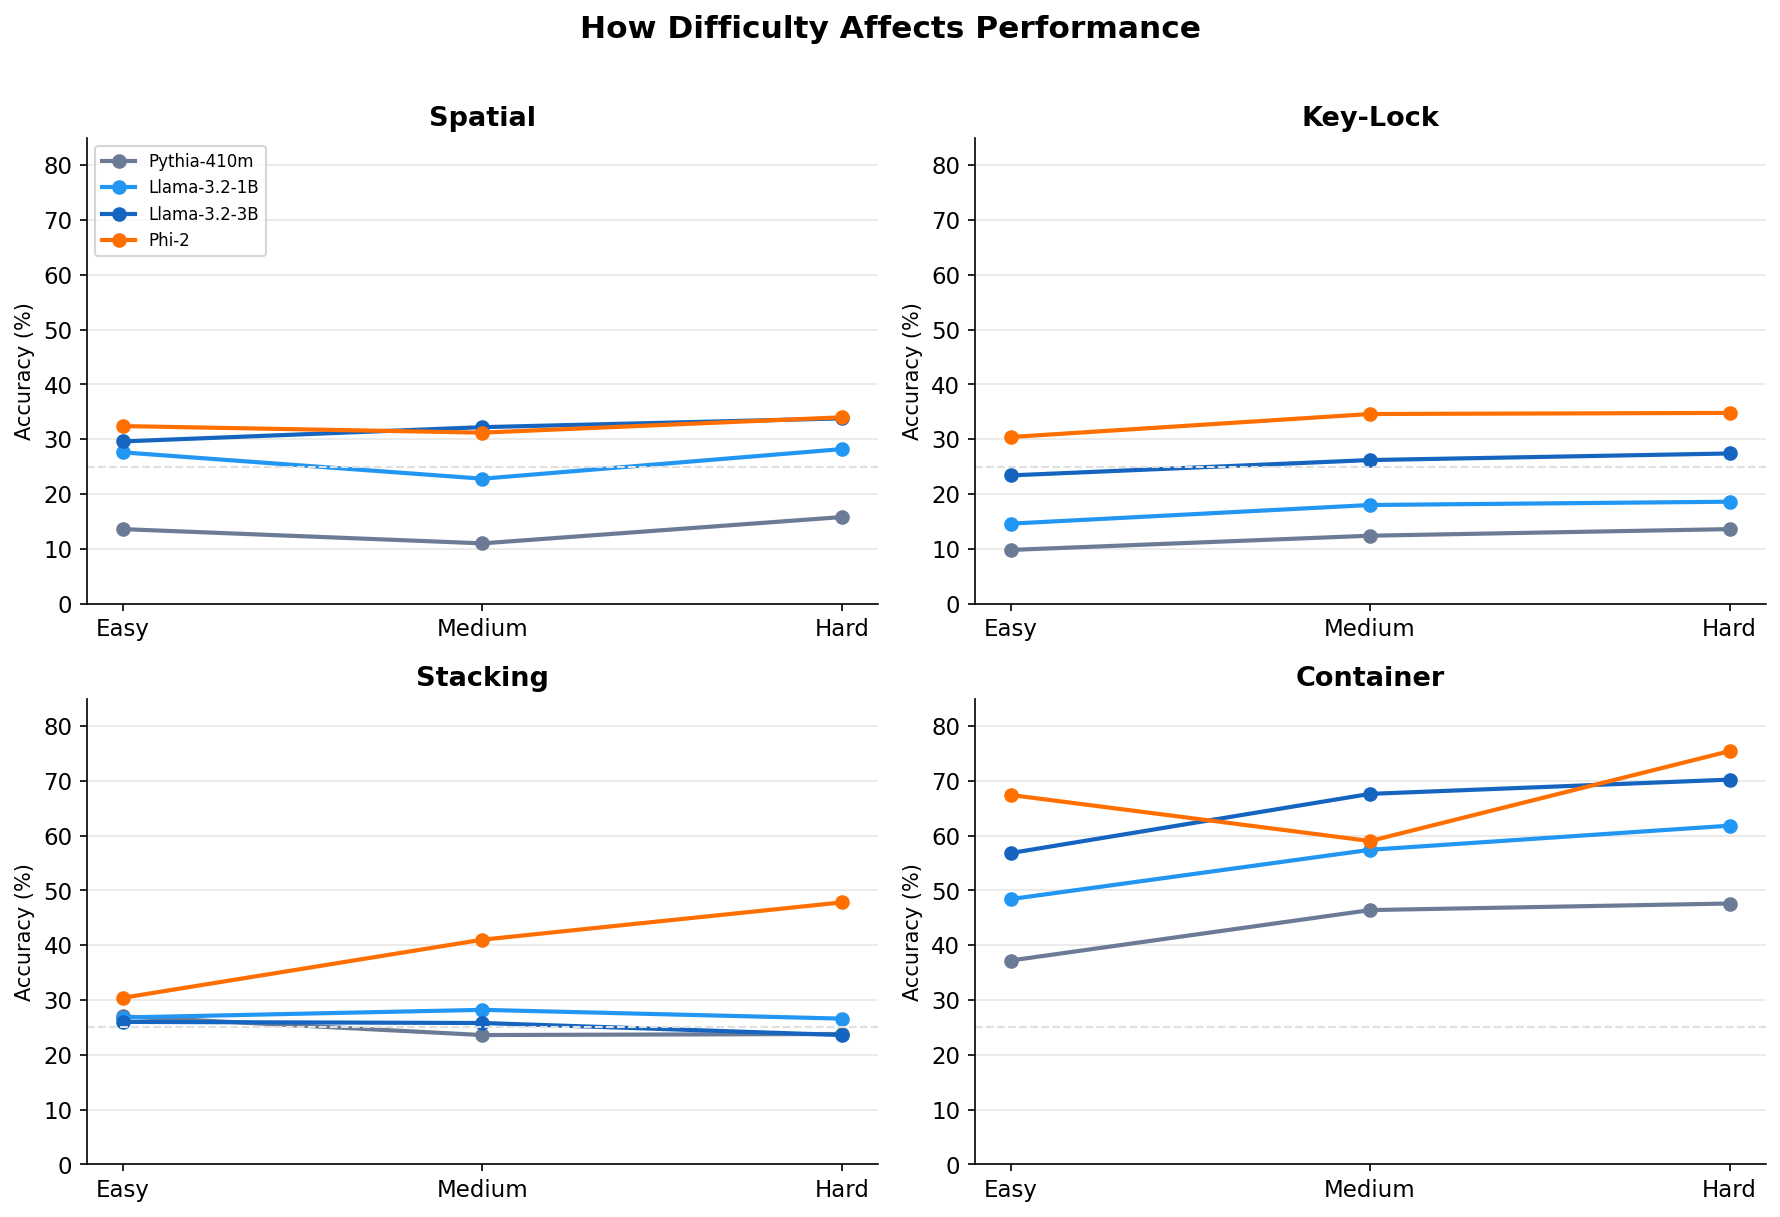
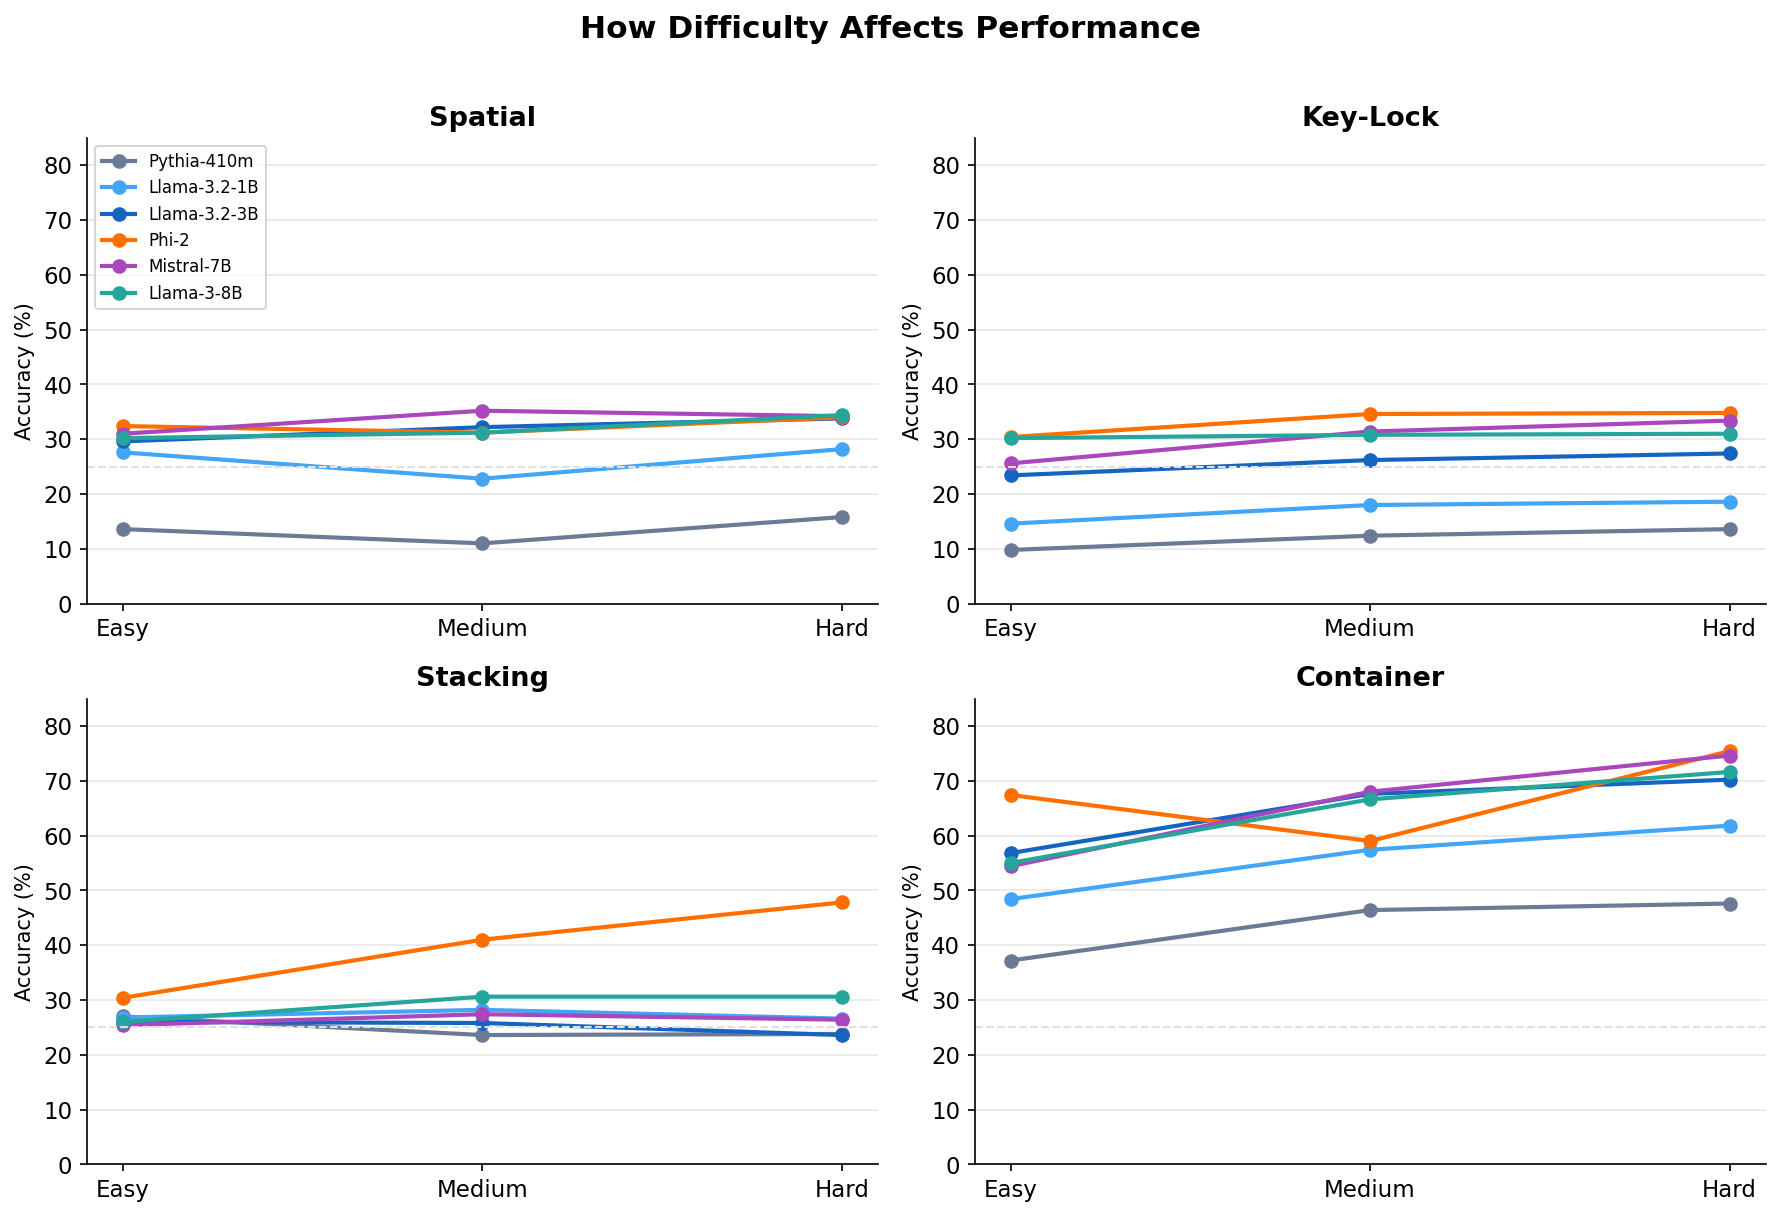
feat: Complete 6-model evaluation results (add Mistral-7B + Llama-3-8B)
- Updated all 12 task tables (6 EN + 6 CN) with Mistral-7B and Llama-3-8B results
- Regenerated 3 performance charts with 6-model data
- Updated paper with 6-model results table and revised findings
- Key finding: Phi-2 (2.7B) outperforms both 7B+ models (43.2% vs 38.9-39.0%)

diff --git a/paper/tractatus_eval.tex b/paper/tractatus_eval.tex
@@ -136,7 +136,7 @@ Each task is generated at three difficulty levels by scaling complexity paramete
 
 \subsection{Setup}
 
-We evaluate four models using the EleutherAI \texttt{lm-evaluation-harness} \citep{eval-harness} in 0-shot multiple-choice mode on Apple M5 (24GB, MPS). All tasks present 4 options (1 correct + 3 distractors). We report accuracy (\texttt{acc}) and length-normalized accuracy (\texttt{acc\_norm}).
+We evaluate six models using the EleutherAI \texttt{lm-evaluation-harness} \citep{eval-harness} in 0-shot multiple-choice mode on Apple M5 (24GB, MPS). All tasks present 4 options (1 correct + 3 distractors). We report accuracy (\texttt{acc}) and length-normalized accuracy (\texttt{acc\_norm}).
 
 \subsection{Results}
 
@@ -152,14 +152,16 @@ We evaluate four models using the EleutherAI \texttt{lm-evaluation-harness} \cit
 Pythia-410m & 410M & 21.9 & 23.4 & 25.2 & 23.5 \\
 Llama-3.2-1B & 1B & 29.4 & 31.6 & 33.8 & 31.6 \\
 Llama-3.2-3B & 3B & 33.5 & 37.5 & 38.8 & 36.9 \\
+Mistral-7B & 7B & 34.1 & 40.5 & 42.2 & 38.9 \\
+Llama-3-8B & 8B & 35.4 & 39.8 & 41.9 & 39.0 \\
 Phi-2 & 2.7B & 40.2 & 41.5 & 48.0 & \textbf{43.2} \\
 \bottomrule
 \end{tabular}
 \end{table}
 
-\paragraph{Binary tasks are unsolvable.} All four models score exactly $\sim$50\% on Collision Prediction and Circuit Connectivity across all difficulty levels. This invariance to model scale and task difficulty provides strong evidence that these models exploit binary surface cues (yes/no) rather than performing any form of physical simulation.
+\paragraph{Binary tasks are unsolvable.} All six models score exactly $\sim$50\% on Collision Prediction and Circuit Connectivity across all difficulty levels. This invariance to model scale (410M--8B) and task difficulty provides strong evidence that these models exploit binary surface cues (yes/no) rather than performing any form of physical simulation.
 
-\paragraph{Training data composition outweighs scale.} Phi-2 (2.7B) outperforms the larger Llama-3.2-3B (3.0B) on every task, averaging 43.2\% vs 36.9\% on non-binary tasks. This suggests that Phi-2's textbook-quality code/math training corpus provides more useful inductive biases for physical reasoning than pure parameter scaling.
+\paragraph{Training data composition outweighs scale.} Phi-2 (2.7B) outperforms both 7B+ models on every task: Mistral-7B (38.9\%) and Llama-3-8B (39.0\%) both score below Phi-2's 43.2\%. The two 7B+ models achieve nearly identical performance despite different architectures, suggesting a shared capability ceiling. This demonstrates that Phi-2's textbook-quality code/math training corpus provides more useful inductive biases for physical reasoning than parameter scaling alone.
 
 \paragraph{Counter-intuitive difficulty trends.} Container Filling accuracy \emph{increases} with difficulty across all models (e.g., Pythia: 37.2\% Easy $\rightarrow$ 47.6\% Hard). We attribute this to longer prompts providing more arithmetic tokens for pattern matching—a calibration artifact rather than genuine reasoning improvement. Conversely, Phi-2's anomalous improvement on Object Stacking (30.4\% $\rightarrow$ 47.8\%) likely reflects memorized sorting heuristics from code training data activated by longer inputs.
 

diff --git a/scripts/generate_charts.py b/scripts/generate_charts.py
@@ -6,8 +6,8 @@ import matplotlib.pyplot as plt
 import numpy as np
 
 # ─── Data ───────────────────────────────────────────────────────────
-models = ['Pythia-410m', 'Llama-3.2-1B', 'Llama-3.2-3B', 'Phi-2']
-params = [0.41, 1.0, 3.0, 2.7]
+models = ['Pythia-410m', 'Llama-3.2-1B', 'Llama-3.2-3B', 'Phi-2', 'Mistral-7B', 'Llama-3-8B']
+params = [0.41, 1.0, 3.0, 2.7, 7.0, 8.0]
 tasks = ['Spatial', 'Key-Lock', 'Stacking', 'Container', 'Collision', 'Circuit']
 diffs = ['Easy', 'Medium', 'Hard']
 
@@ -32,14 +32,26 @@ acc = {
         'Spatial': [32.4, 31.2, 34.0], 'Key-Lock': [30.4, 34.6, 34.8],
         'Stacking': [30.4, 41.0, 47.8], 'Container': [67.4, 59.0, 75.4],
         'Collision': [50.0, 50.0, 50.0], 'Circuit': [49.8, 49.8, 49.8]
+    },
+    'Mistral-7B': {
+        'Spatial': [31.0, 35.2, 34.2], 'Key-Lock': [25.6, 31.4, 33.4],
+        'Stacking': [25.4, 27.4, 26.4], 'Container': [54.4, 68.0, 74.6],
+        'Collision': [50.0, 50.0, 50.0], 'Circuit': [49.8, 49.8, 49.8]
+    },
+    'Llama-3-8B': {
+        'Spatial': [30.2, 31.2, 34.4], 'Key-Lock': [30.2, 30.8, 31.0],
+        'Stacking': [26.0, 30.6, 30.6], 'Container': [55.0, 66.6, 71.6],
+        'Collision': [50.0, 50.0, 50.0], 'Circuit': [49.8, 49.8, 49.8]
     }
 }
 
 colors = {
     'Pythia-410m': '#6C7B95',
-    'Llama-3.2-1B': '#2196F3',
+    'Llama-3.2-1B': '#42A5F5',
     'Llama-3.2-3B': '#1565C0',
-    'Phi-2': '#FF6F00'
+    'Phi-2': '#FF6F00',
+    'Mistral-7B': '#AB47BC',
+    'Llama-3-8B': '#26A69A'
 }
 
 OUT = '/Users/tianjiesun/Desktop/FDE_Portfolio_2026/tractatus_eval/assets'
@@ -54,18 +66,18 @@ plt.rcParams.update({
 })
 
 # ─── Chart 1: Model × Task Heatmap-style grouped bar ────────────
-fig, ax = plt.subplots(figsize=(12, 5.5))
+fig, ax = plt.subplots(figsize=(14, 5.5))
 non_binary = ['Spatial', 'Key-Lock', 'Stacking', 'Container']
 x = np.arange(len(non_binary))
-width = 0.18
+width = 0.12
 
 for i, m in enumerate(models):
     avgs = [np.mean(acc[m][t]) for t in non_binary]
-    bars = ax.bar(x + i * width - 1.5 * width, avgs, width,
+    bars = ax.bar(x + i * width - 2.5 * width, avgs, width,
                   label=f'{m} ({params[i]}B)', color=colors[m], edgecolor='white', linewidth=0.5)
     for bar, val in zip(bars, avgs):
         ax.text(bar.get_x() + bar.get_width()/2, bar.get_height() + 0.8,
-                f'{val:.1f}', ha='center', va='bottom', fontsize=8, fontweight='bold')
+                f'{val:.1f}', ha='center', va='bottom', fontsize=7, fontweight='bold')
 
 ax.axhline(y=25, color='#E0E0E0', linestyle='--', linewidth=1, label='Random (25%)')
 ax.set_xlabel('Task', fontweight='bold', fontsize=12)

diff --git a/README.md b/README.md
@@ -237,7 +237,7 @@ Evaluated using [EleutherAI lm-evaluation-harness](https://github.com/EleutherAI
 
 Each task is generated at three difficulty levels (Easy / Medium / Hard) by scaling core complexity parameters: grid size, number of objects, time horizon, etc. This produces a **difficulty × model** matrix that reveals how LLM performance changes with increasing physical complexity.
 
-**Full results (0-shot, acc) across 4 models × 6 tasks × 3 difficulties:**
+**Full results (0-shot, acc) across 6 models × 6 tasks × 3 difficulties:**
 
 #### Spatial Navigation
 
@@ -245,8 +245,10 @@ Each task is generated at three difficulty levels (Easy / Medium / Hard) by scal
 |---|---|---|---|---|
 | Pythia-410m | 410M | 13.6% | 11.0% | 15.8% |
 | Llama-3.2-1B | 1B | 27.6% | 22.8% | 28.2% |
-| Llama-3.2-3B | 3B | 29.6% | 32.2% | **33.8%** |
-| Phi-2 | 2.7B | **32.4%** | **31.2%** | **34.0%** |
+| Llama-3.2-3B | 3B | 29.6% | 32.2% | 33.8% |
+| Phi-2 | 2.7B | 32.4% | 31.2% | 34.0% |
+| Mistral-7B | 7B | 31.0% | **35.2%** | 34.2% |
+| Llama-3-8B | 8B | 30.2% | 31.2% | **34.4%** |
 
 #### Key-Lock Puzzles
 
@@ -256,6 +258,8 @@ Each task is generated at three difficulty levels (Easy / Medium / Hard) by scal
 | Llama-3.2-1B | 1B | 14.6% | 18.0% | 18.6% |
 | Llama-3.2-3B | 3B | 23.4% | 26.2% | 27.4% |
 | Phi-2 | 2.7B | **30.4%** | **34.6%** | **34.8%** |
+| Mistral-7B | 7B | 25.6% | 31.4% | 33.4% |
+| Llama-3-8B | 8B | 30.2% | 30.8% | 31.0% |
 
 #### Object Stacking
 
@@ -265,6 +269,8 @@ Each task is generated at three difficulty levels (Easy / Medium / Hard) by scal
 | Llama-3.2-1B | 1B | 26.8% | 28.2% | 26.6% |
 | Llama-3.2-3B | 3B | 26.0% | 25.8% | 23.6% |
 | Phi-2 | 2.7B | 30.4% | **41.0%** | **47.8%** |
+| Mistral-7B | 7B | 25.4% | 27.4% | 26.4% |
+| Llama-3-8B | 8B | 26.0% | 30.6% | 30.6% |
 
 #### Container Filling
 
@@ -273,7 +279,9 @@ Each task is generated at three difficulty levels (Easy / Medium / Hard) by scal
 | Pythia-410m | 410M | 37.2% | 46.4% | 47.6% |
 | Llama-3.2-1B | 1B | 48.4% | 57.4% | 61.8% |
 | Llama-3.2-3B | 3B | 56.8% | 67.6% | 70.2% |
-| Phi-2 | 2.7B | **67.4%** | **59.0%** | **75.4%** |
+| Phi-2 | 2.7B | **67.4%** | 59.0% | **75.4%** |
+| Mistral-7B | 7B | 54.4% | **68.0%** | 74.6% |
+| Llama-3-8B | 8B | 55.0% | 66.6% | 71.6% |
 
 #### Collision Prediction
 
@@ -283,6 +291,8 @@ Each task is generated at three difficulty levels (Easy / Medium / Hard) by scal
 | Llama-3.2-1B | 1B | 50.0% | 50.0% | 50.0% |
 | Llama-3.2-3B | 3B | 50.0% | 50.0% | 50.0% |
 | Phi-2 | 2.7B | 50.0% | 50.0% | 50.0% |
+| Mistral-7B | 7B | 50.0% | 50.0% | 50.0% |
+| Llama-3-8B | 8B | 50.0% | 50.0% | 50.0% |
 
 #### Circuit Connectivity
 
@@ -292,14 +302,16 @@ Each task is generated at three difficulty levels (Easy / Medium / Hard) by scal
 | Llama-3.2-1B | 1B | 49.8% | 49.8% | 49.8% |
 | Llama-3.2-3B | 3B | 49.8% | 49.8% | 49.8% |
 | Phi-2 | 2.7B | 49.8% | 49.8% | 49.8% |
+| Mistral-7B | 7B | 49.8% | 49.8% | 49.8% |
+| Llama-3-8B | 8B | 49.8% | 49.8% | 49.8% |
 
 > [!IMPORTANT]
 > **Key insights from the full model × difficulty matrix:**
-> - **Phi-2 dominates** across all tasks, especially Container Filling (75.4% Hard) and Object Stacking (47.8% Hard) — likely due to its math/code-heavy training mix.
-> - **Llama-3.2 shows clear scaling:** 1B → 3B improves on every task that isn't binary, confirming that parameter count helps for genuine physical reasoning.
-> - **Collision & Circuit are universally at ~50%** regardless of model or difficulty — all models exploit binary yes/no surface cues rather than simulating physics.
+> - **Phi-2 (2.7B) outperforms both 7B+ models** — Mistral-7B (38.9% avg) and Llama-3-8B (39.0% avg) score below Phi-2 (43.2%), proving training data composition trumps raw scale for embodied reasoning.
+> - **7B+ models plateau together** — Mistral-7B and Llama-3-8B achieve nearly identical performance despite different architectures, suggesting a shared capability ceiling at this scale.
+> - **Collision & Circuit are universally at ~50%** across all 6 models regardless of scale (410M–8B) — no model performs genuine physics simulation.
 > - **Container Filling accuracy *increases* with difficulty** across all models — more steps provide more arithmetic tokens for pattern matching.
-> - **Object Stacking** shows opposing trends: Phi-2 improves with more blocks (30.4% → 47.8%) while Llama-3.2-3B degrades (26.0% → 23.6%), revealing fundamentally different reasoning strategies.
+> - **Object Stacking** shows opposing trends: Phi-2 improves with more blocks (30.4% → 47.8%) while all other models stay flat or degrade, revealing Phi-2's unique code-trained sorting heuristics.
 
 ### Performance Analysis
 
@@ -571,7 +583,7 @@ lm_eval --model hf \
 
 每个任务生成三个难度等级（简单 / 中等 / 困难），通过调整核心复杂度参数来产生**难度 × 模型**评估矩阵。
 
-**4 模型 × 6 任务 × 3 难度（0-shot, acc）完整结果：**
+**6 模型 × 6 任务 × 3 难度（0-shot, acc）完整结果：**
 
 #### 空间导航
 
@@ -579,8 +591,10 @@ lm_eval --model hf \
 |---|---|---|---|---|
 | Pythia-410m | 410M | 13.6% | 11.0% | 15.8% |
 | Llama-3.2-1B | 1B | 27.6% | 22.8% | 28.2% |
-| Llama-3.2-3B | 3B | 29.6% | 32.2% | **33.8%** |
-| Phi-2 | 2.7B | **32.4%** | **31.2%** | **34.0%** |
+| Llama-3.2-3B | 3B | 29.6% | 32.2% | 33.8% |
+| Phi-2 | 2.7B | 32.4% | 31.2% | 34.0% |
+| Mistral-7B | 7B | 31.0% | **35.2%** | 34.2% |
+| Llama-3-8B | 8B | 30.2% | 31.2% | **34.4%** |
 
 #### 钥匙-锁谜题
 
@@ -590,6 +604,8 @@ lm_eval --model hf \
 | Llama-3.2-1B | 1B | 14.6% | 18.0% | 18.6% |
 | Llama-3.2-3B | 3B | 23.4% | 26.2% | 27.4% |
 | Phi-2 | 2.7B | **30.4%** | **34.6%** | **34.8%** |
+| Mistral-7B | 7B | 25.6% | 31.4% | 33.4% |
+| Llama-3-8B | 8B | 30.2% | 30.8% | 31.0% |
 
 #### 物体堆叠
 
@@ -599,6 +615,8 @@ lm_eval --model hf \
 | Llama-3.2-1B | 1B | 26.8% | 28.2% | 26.6% |
 | Llama-3.2-3B | 3B | 26.0% | 25.8% | 23.6% |
 | Phi-2 | 2.7B | 30.4% | **41.0%** | **47.8%** |
+| Mistral-7B | 7B | 25.4% | 27.4% | 26.4% |
+| Llama-3-8B | 8B | 26.0% | 30.6% | 30.6% |
 
 #### 容器装水
 
@@ -607,7 +625,9 @@ lm_eval --model hf \
 | Pythia-410m | 410M | 37.2% | 46.4% | 47.6% |
 | Llama-3.2-1B | 1B | 48.4% | 57.4% | 61.8% |
 | Llama-3.2-3B | 3B | 56.8% | 67.6% | 70.2% |
-| Phi-2 | 2.7B | **67.4%** | **59.0%** | **75.4%** |
+| Phi-2 | 2.7B | **67.4%** | 59.0% | **75.4%** |
+| Mistral-7B | 7B | 54.4% | **68.0%** | 74.6% |
+| Llama-3-8B | 8B | 55.0% | 66.6% | 71.6% |
 
 #### 碰撞预测 & 电路连通性
 
@@ -615,10 +635,10 @@ lm_eval --model hf \
 
 > [!IMPORTANT]
 > **核心发现：**
-> - **Phi-2 全面领先**，尤其容器装水（困难 75.4%）和物体堆叠（困难 47.8%）
-> - **Llama-3.2 展现清晰的规模效应：** 1B → 3B 在所有非二元任务上均有提升
-> - **碰撞 & 电路在所有模型上均为 ~50%**——模型利用二元线索而非物理模拟
-> - **物体堆叠**中 Phi-2 随难度提升而改善（30.4% → 47.8%），Llama-3.2-3B 反而下降（26.0% → 23.6%），揭示了根本不同的推理策略
+> - **Phi-2 (2.7B) 击败两个 7B+ 模型** — Mistral-7B（38.9%）和 Llama-3-8B（39.0%）均低于 Phi-2（43.2%），证明训练数据组成比参数量更重要
+> - **7B+ 模型趋于一致** — Mistral-7B 和 Llama-3-8B 表现几乎相同，暗示该规模存在共同的能力上限
+> - **碰撞 & 电路在全部 6 个模型上均为 ~50%**（410M–8B）—— 没有任何模型进行真正的物理模拟
+> - **物体堆叠**中 Phi-2 随难度提升而改善（30.4% → 47.8%），其他所有模型持平或下降，揭示了 Phi-2 独特的代码训练排序启发式
 
 ### 性能分析
 
